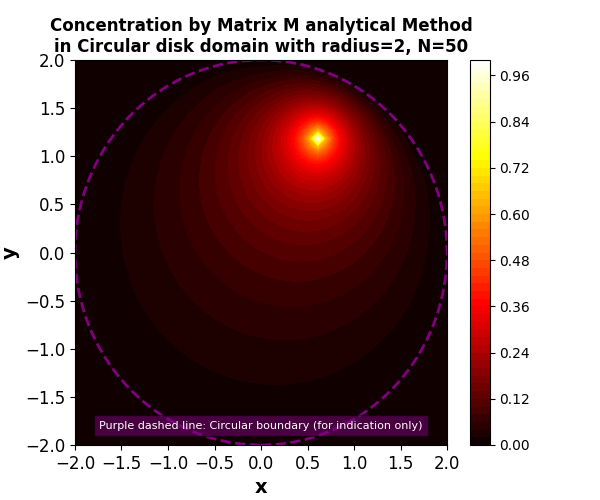
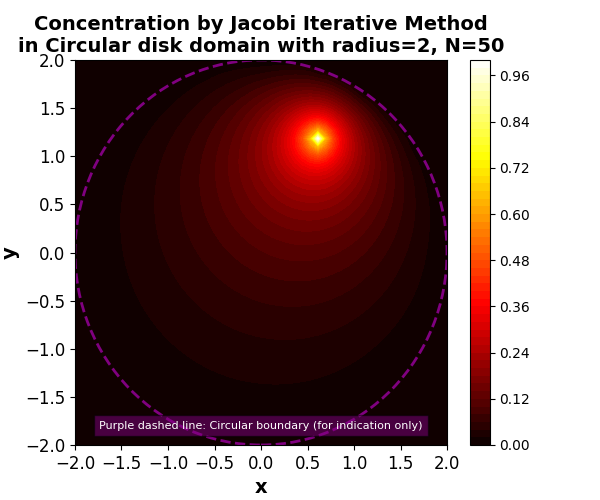
enhancement for plots

Changed region(s): [[0.03, 0.03, 0.84, 0.12]]

diff --git a/src/steady_diffusion/analytical_solution.py b/src/steady_diffusion/analytical_solution.py
@@ -108,7 +108,7 @@ def plot_solution(c_solution, N, x, y, path="../../fig/steady_diffusion_circle_b
             fontsize=8, color='white', ha='center', va='center', bbox=dict(facecolor='purple', alpha=0.5))
 
     # plt.scatter(source_x, source_y, color='blue', marker='o', label="Source Point (1)")
-    plt.title(f"Concentration by Matrix M analytical Method\nin Circular disk domain with radius=2, N={N}", fontsize=12, fontweight='bold')
+    plt.title(f"Concentration by Matrix M Analytical Method\nin Circular disk domain with radius=2, N={N}", fontsize=12, fontweight='bold')
     plt.xticks(fontsize=12)
     plt.yticks(fontsize=12)
     plt.xlabel("x", fontsize=14, fontweight='bold')

diff --git a/src/steady_diffusion/jacobi_iterative.py b/src/steady_diffusion/jacobi_iterative.py
@@ -71,7 +71,7 @@ def plot_circle_domain(N=50, R=2.0, tol=1e-6, source_point=(0.6, 1.2), path="../
             fontsize=8, color='white', ha='center', va='center', bbox=dict(facecolor='purple', alpha=0.5))
 
     # plt.scatter(source_x, source_y, color='blue', marker='o', label="Source Point (1)")
-    plt.title(f"Concentration by Iterative Method\nin Circular disk domain with radius=2, N={N}", fontsize=14, fontweight='bold')
+    plt.title(f"Concentration by Jacobi Iterative Method\nin Circular disk domain with radius=2, N={N}", fontsize=14, fontweight='bold')
     plt.xticks(fontsize=12)
     plt.yticks(fontsize=12)
     plt.xlabel("x", fontsize=14, fontweight='bold')
